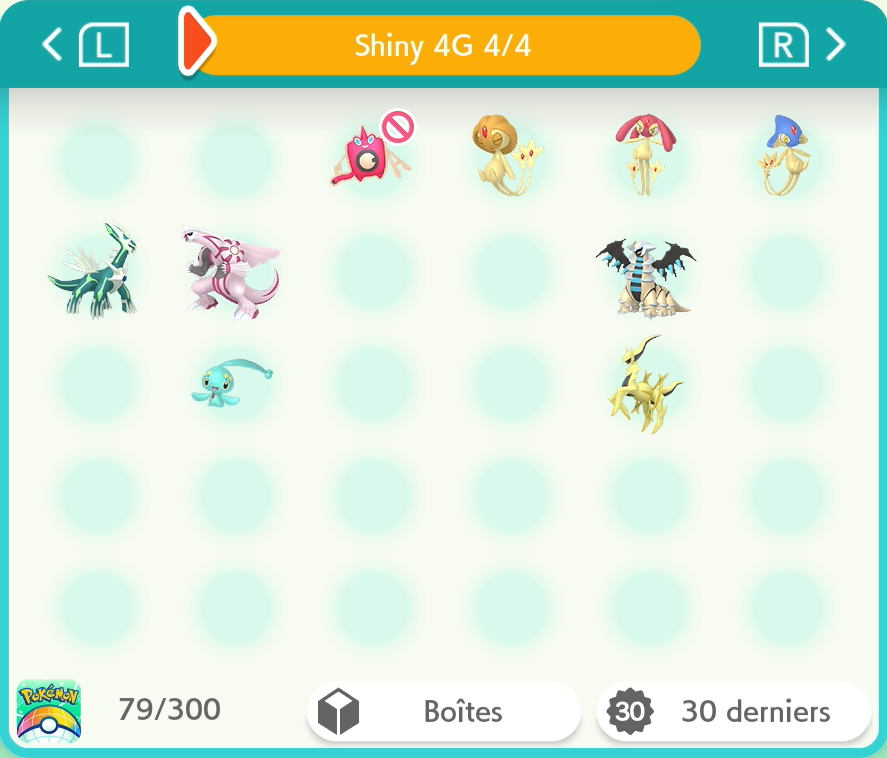
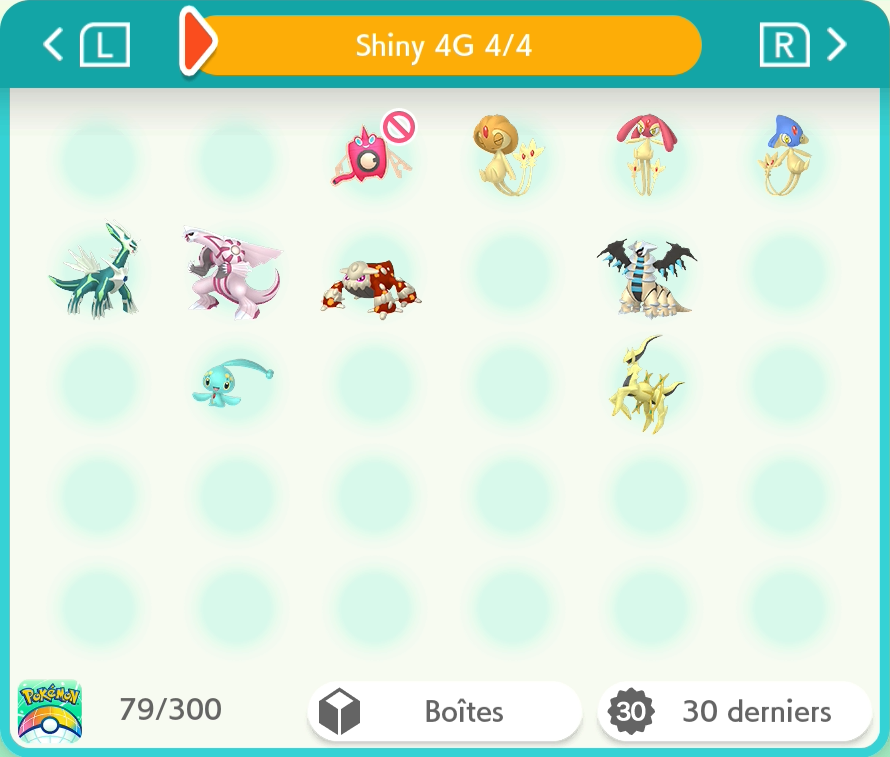
4G : Heatran

diff --git a/README.md b/README.md
@@ -2,15 +2,15 @@
 
 Pokémon-Elément-Sh -> <a href="https://www.pokemon-element-sh.fr/profil/karyno21" target="_blank">Karyno21</a>
 
-↓ Dernière Update le 26/10/2026 à 23h41 ↓
-### Dex 1-9G [305/1001] +44
+↓ Dernière Update le 28/10/2026 à 4h38 ↓
+### Dex 1-9G [306/1001] +45
 
 | Gen | Prog | Notes |
 |:--:|:--:|---|
 |1G|50/151|+6 : Artikodin, Électhor, Sulfura, Ptéra, Leveinard & Akwakwak|
 |2G|38/100|+6 : Celebi, Raikou, Entei, Suicune, Lugia & Ho-Oh|
 |3G|30/135|+8 : Spinda, Regirock, Regice, Registeel, Latias, Latios, Kyogre, Groudon & Jirachi|
-|4G|25/107|+5 : Créhelf, Créfollet, Créfadet, Dialga & Palkia|
+|4G|26/107|+6 : Créhelf, Créfollet, Créfadet, Dialga, Palkia & Heatran|
 |5G|31/155|+3 : Genesect (JP Event), Venipatte & Scobolide|
 |6G|30/71|+8 : Amagara, Dragmara, Ptyranidur, Volcanion (HOME), Diancie (JP Event), Lépidonille, Pérégrain & Prismillon (Floraison)|
 |7G|20/84|+4 : Type:0, Silvallié, Mandrillon & Sovkipou|
@@ -26,7 +26,7 @@ Pokémon-Elément-Sh -> <a href="https://www.pokemon-element-sh.fr/profil/karyno
 |Hisui|17/17|Complété|
 |Paldea|4/4|Complété|
 
-### Total [363/1059] +44
+### Total [364/1059] +45
 
 <details>
   <summary>Bonus - Motif de Prismillon [19/19] +19</summary>
